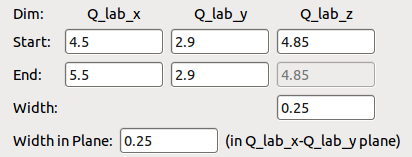
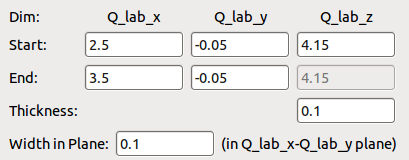
Refs #4588 screenshots for wiki

diff --git a/Code/Mantid/MantidQt/SliceViewer/doc/sliceviewer_wiki_screenshots.py b/Code/Mantid/MantidQt/SliceViewer/doc/sliceviewer_wiki_screenshots.py
@@ -14,7 +14,9 @@ ConvertToDiffractionMDWorkspace(InputWorkspace=ws+"_nxs", OutputWorkspace='HKL',
 
 #================ Start the Screenshots ==========================
 import numpy
+import numpy as np
 from PyQt4 import Qt
+import os
 
 svw = plotSlice("hkl", slicepoint=[0,0, -5], colorscalelog=True, limits=[-6.5,-3.5, -2.5,0.5])
 svw.setColorScaleAutoSlice()
@@ -27,12 +29,11 @@ for L in numpy.arange(-5.07, -4.9, 0.01):
 	pix.save("/home/8oz/Code/Mantid/Code/Mantid/MantidQt/SliceViewer/doc/anim%02d.png" % n)
 	n = n + 1
 	
-import os
 # This requires imagemagick. Converts to a nifty animated gif.
 os.system("convert /home/8oz/Code/Mantid/Code/Mantid/MantidQt/SliceViewer/doc/anim*.png /home/8oz/Code/Mantid/Code/Mantid/MantidQt/SliceViewer/doc/SliceViewer_SlicePoint_Animation.gif")
 
-# =============
-BinMD(InputWorkspace='topaz_q',AlignedDimX='Q_lab_x, 0, 6, 120',AlignedDimY='Q_lab_y, -3, 3, 120',AlignedDimZ='Q_lab_z, 0, 6, 120', OutputWorkspace='bin_q')
+# ============= Line Viewer Animation ===========================
+BinMD(InputWorkspace='TOPAZ',AlignedDimX='Q_lab_x, 0, 6, 120',AlignedDimY='Q_lab_y, -3, 3, 120',AlignedDimZ='Q_lab_z, 0, 6, 120', OutputWorkspace='bin_q')
 
 sv = plotSlice('bin_q', slicepoint=[0,0, 4.15], colorscalelog=True, limits=[2,4,-1,1])
 n = 0
@@ -40,7 +41,29 @@ for y in np.linspace(-0.2, 0.2, 21):
 	lv = sv.showLine(start=[2.5,y], end=[3.5,y], width=0.1)
 	n += 1
 	pix = QtGui.QPixmap.grabWidget(sv._getHeldObject())
-	pix.save("anim%02d.png" % n)
+	pix.save("/home/8oz/Code/Mantid/Code/Mantid/MantidQt/SliceViewer/doc/lvanim%02d.png" % n)
 	
+os.system("convert /home/8oz/Code/Mantid/Code/Mantid/MantidQt/SliceViewer/doc/lvanim*.png /home/8oz/Code/Mantid/Code/Mantid/MantidQt/SliceViewer/doc/LineViewerAnimation.gif")
+
+# ============= Other LineViewer Screenshots ==============
+
+sv = plotSlice('bin_q', slicepoint=[0,0, 4.15], colorscalelog=True, limits=[2,4,-1,1])
+sv.setFastRender(False)
+sv.resize( 800, 550)
+Qt.QCoreApplication.processEvents()
+lv = sv.showLine(start=[2.5,-0.05], end=[3.5,-0.05], width=0.1)
+pix = QtGui.QPixmap.grabWidget(sv._getHeldObject())
+pix.save("/home/8oz/Code/Mantid/Code/Mantid/MantidQt/SliceViewer/doc/SliceViewer_and_LineViewer.png")
+
+print dir(sv)
+
+# ============= LineViewer Plot Screenshots ==============
+
+CreateMDWorkspace(Dimensions='4',Extents='0,10,0,10,0,10,0,10',Names='Q_x,Q_y,Q_z,E',Units='Angstrom^-1,Angstrom^-1,Angstrom^-1,meV',SplitInto='2',SplitThreshold='100', MaxRecursionDepth='20',OutputWorkspace='ws_4d')
+FakeMDEventData(InputWorkspace='ws_4d',UniformParams='1e+06')
+FakeMDEventData(InputWorkspace='ws_4d',PeakParams='30000,6,7,5,5,1')
+sv = plotSlice('ws_4d', xydim=[2,3], slicepoint=[6,7, 0,0], colorscalelog=True)
+sv.setFastRender(False)
+lv = sv.showLine(start=[8,2], end=[2,8], width=1)
 
 closeAllSliceViewers()

diff --git a/Code/Mantid/MantidQt/SliceViewer/src/LineViewer.cpp b/Code/Mantid/MantidQt/SliceViewer/src/LineViewer.cpp
@@ -137,7 +137,6 @@ void LineViewer::updateFreeDimensions()
       m_thicknessText[d]->setVisible(d != 0);
     else
       m_thicknessText[d]->setVisible(!b);
-    m_thicknessText[d]->setToolTip("Integration width in this dimension.");
 
     // --- Adjust the signals ---
     m_startText[d]->disconnect();
